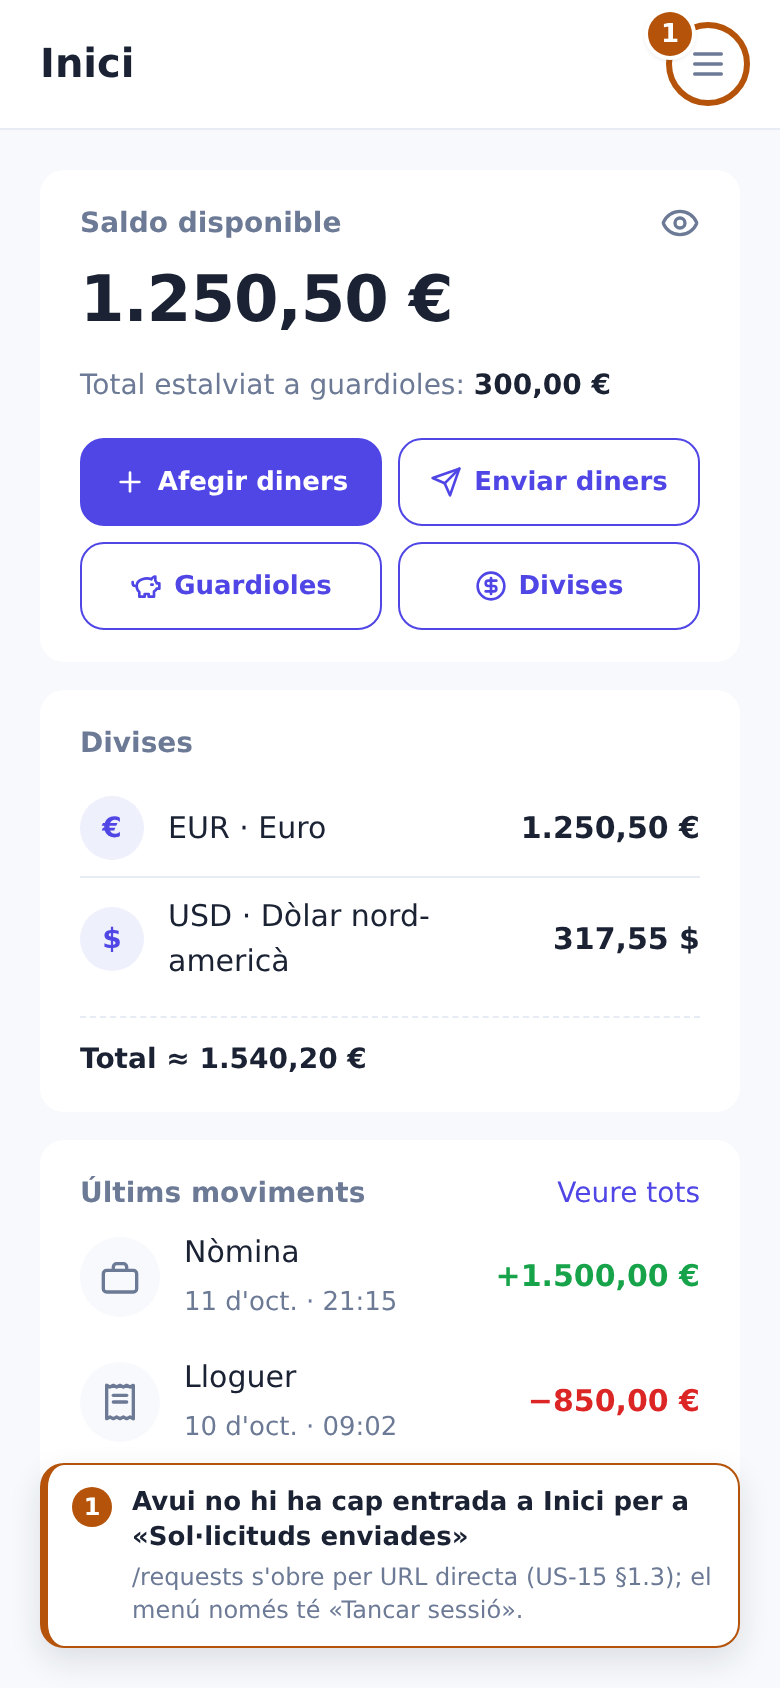
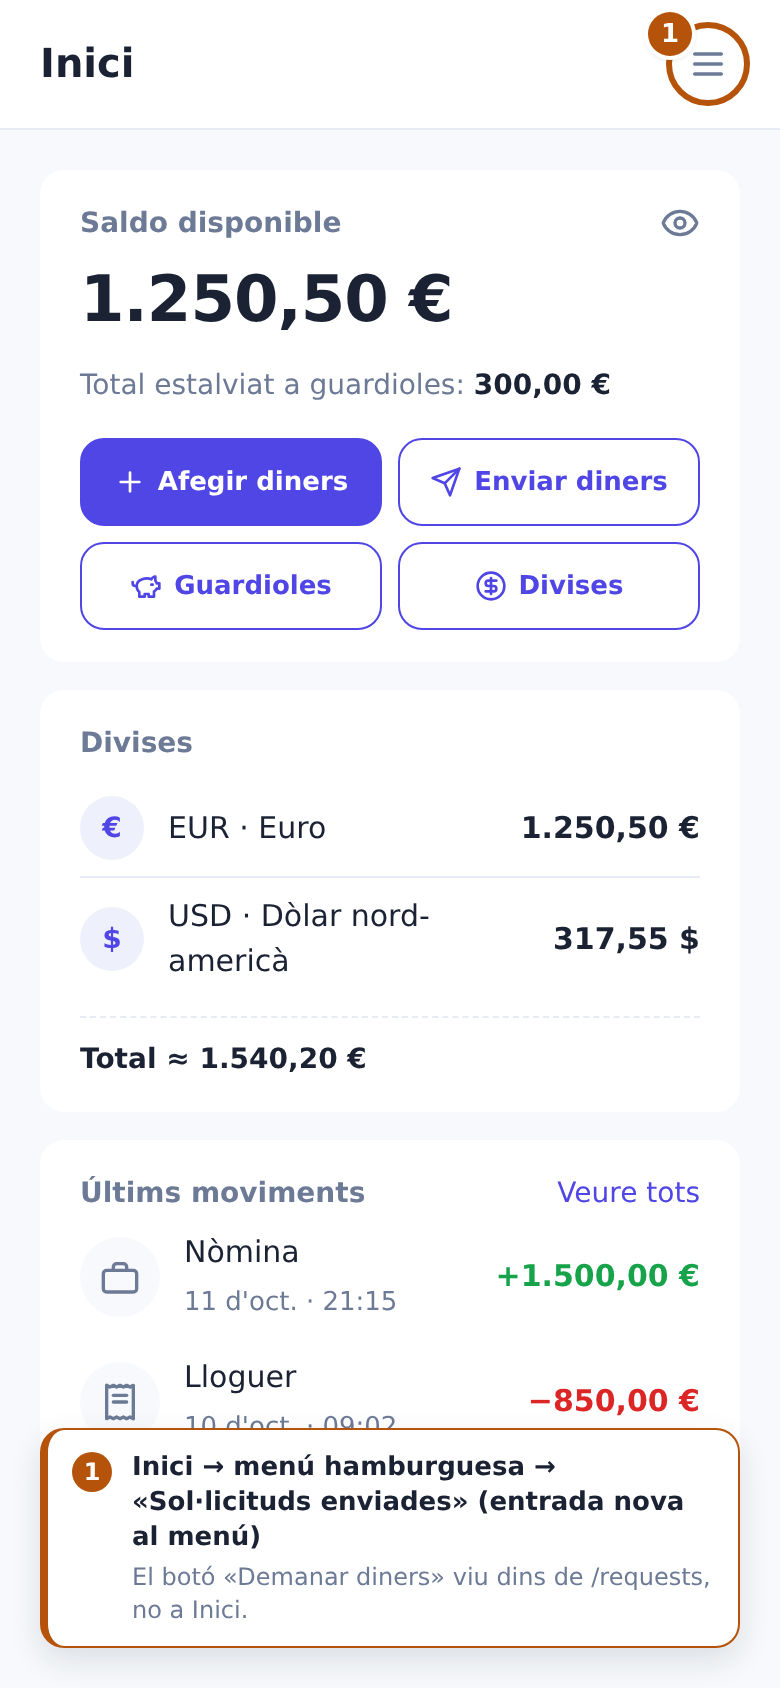
docs(us): pin the inbox text and the menu access (D2) US-15
PO decisions: inbox notice is «<nom> et demana 30,00 €: <concepte>.» (PR #198) and access is Inici -> hamburger -> «Sol·licituds enviades», with the «Demanar diners» button inside that screen (D2).

diff --git a/docs/us/_mockup/src/US-15-acces-inici.html b/docs/us/_mockup/src/US-15-acces-inici.html
@@ -344,7 +344,7 @@
 
   <div class="annot" role="note">
     <span class="annot-num">1</span>
-    <p class="annot-text"><strong>Avui no hi ha cap entrada a Inici per a «Sol·licituds enviades»</strong><span class="annot-note">/requests s'obre per URL directa (US-15 §1.3); el menú només té «Tancar sessió».</span></p>
+    <p class="annot-text"><strong>Inici → menú hamburguesa → «Sol·licituds enviades» (entrada nova al menú)</strong><span class="annot-note">El botó «Demanar diners» viu dins de /requests, no a Inici.</span></p>
   </div>
 </div>
 </body>

diff --git a/docs/us/US-15.md b/docs/us/US-15.md
@@ -13,7 +13,7 @@ Assumptes:
 Casos especials:
 - El contracte té quatre estats (`pending`, `paid`, `rejected`, `expired`); no n'hi ha cap de «Cancel·lada». A l'Sprint 2 només se'n poden veure dos: «Pendent» i «Caducada»; «Pagada» i «Rebutjada» arriben amb la US-16.
 - «Caducada» no es desa mai: es deriva en llegir pel dia natural de Madrid (una sol·licitud del 14 de nov. es veu «Caducada» des de les 00:00 del 21 de nov.), sense cap tasca de fons.
-- Una sol·licitud no mou diners: ni saldo, ni moviments, ni `totalSaved`, ni XP; només deixa a la bústia simulada «Usuari demo et demana 25,00 €».
+- Una sol·licitud no mou diners: ni saldo, ni moviments, ni `totalSaved`, ni XP; només deixa a la bústia simulada «Usuari demo et demana 30,00 €: Entrades del concert.»
 - «Enviar sol·licitud» queda desactivat sense destinatari triat, import vàlid (fins a 1.000.000,00 €) i concepte d'1 a 140 caràcters; la cerca no et retorna mai a tu i el servidor respon «No et pots demanar diners a tu mateix.» si s'hi insisteix.
 - «Cancel·lar» només surt a les files «Pendent» i obre el diàleg «Cancel·lar sol·licitud»: «Cancel·lar», `Esc` o clic fora el tanquen sense cap crida.
 - En confirmar, la sol·licitud s'esborra: surt «Sol·licitud cancel·lada.» a dalt i la fila desapareix de `/requests` per sempre.
@@ -24,6 +24,6 @@ Estimació: SP 3 · VP 6 · Prioritat Mitjana
 
 Accés: Inici → menú hamburguesa → «Sol·licituds enviades» (`/requests`).
 
-Pantalles: `/requests` (`MoneyRequestsView.vue`, a crear) amb la llista, l'etiqueta d'estat de cada sol·licitud i el diàleg de cancel·lació · `/requests/new` (`NewMoneyRequestView.vue`, a crear) amb destinatari, import i concepte · les dues rutes a `frontend/src/router/index.ts`, protegides per `accessGuard.ts`.
+Pantalles: el botó «Demanar diners» viu DINS de `/requests` (decisió del PO — no hi ha cap targeta a Inici) · `/requests` (`MoneyRequestsView.vue`, a crear) amb el botó «Demanar diners», la llista, l'etiqueta d'estat de cada sol·licitud i el diàleg de cancel·lació · `/requests/new` (`NewMoneyRequestView.vue`, a crear) amb destinatari, import i concepte · les dues rutes a `frontend/src/router/index.ts`, protegides per `accessGuard.ts`.
 
 Mockups: US-15-sollicituds-enviades.png · US-15-sollicituds-buides.png · US-15-demanar-diners.png · US-15-cancelar-confirmacio.png · docs/us/img/US-15-acces-inici.png
